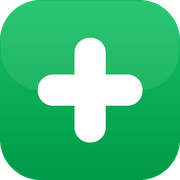
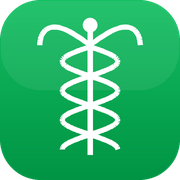
Icone caducee vert + splash screen caducee

Changed region(s): [[0.1944, 0.0833, 0.8056, 0.8611]]

diff --git a/app.js b/app.js
@@ -1968,9 +1968,13 @@ const App = (() => {
     document.getElementById('app').innerHTML = `
       <div class="splash">
         <div class="splash-icon">
-          <svg width="44" height="44" viewBox="0 0 20 20" fill="none">
-            <rect x="8.5" y="2" width="3" height="16" rx="1.5" fill="white"/>
-            <rect x="2" y="8.5" width="16" height="3" rx="1.5" fill="white"/>
+          <svg width="44" height="44" viewBox="0 0 44 44" fill="none">
+            <line x1="22" y1="5" x2="22" y2="40" stroke="white" stroke-width="2.2" stroke-linecap="round"/>
+            <circle cx="22" cy="5" r="2" fill="white"/>
+            <path d="M22 11 C14 7 10 14 16 16" stroke="white" stroke-width="1.8" fill="none" stroke-linecap="round"/>
+            <path d="M22 11 C30 7 34 14 28 16" stroke="white" stroke-width="1.8" fill="none" stroke-linecap="round"/>
+            <path d="M22 14 C14 19 14 25 22 27 C30 29 30 35 22 38" stroke="white" stroke-width="1.8" fill="none" stroke-linecap="round"/>
+            <path d="M22 14 C30 19 30 25 22 27 C14 29 14 35 22 38" stroke="white" stroke-width="1.8" fill="none" stroke-linecap="round"/>
           </svg>
         </div>
         <div class="splash-name">PharmaCaisse</div>

diff --git a/style.css b/style.css
@@ -859,10 +859,10 @@ html, body {
 
 .splash-icon {
   width: 80px; height: 80px;
-  background: var(--accent);
+  background: linear-gradient(160deg, #16C262 0%, #009A44 100%);
   border-radius: 20px;
   display: flex; align-items: center; justify-content: center;
-  box-shadow: 0 8px 32px rgba(0,113,227,0.35),
+  box-shadow: 0 8px 32px rgba(0,154,68,0.40),
     inset 0 1px 0 rgba(255,255,255,0.25);
   animation: iconIn 0.5s var(--spring);
 }

diff --git a/sw.js b/sw.js
@@ -1,4 +1,4 @@
-const CACHE = 'caissepharma-v19';
+const CACHE = 'caissepharma-v20';
 const ASSETS = ['.', 'index.html', 'style.css', 'app.js', 'manifest.json',
                 'icon-180.png', 'icon-192.png', 'icon-512.png', 'firebase-config.js'];
 
